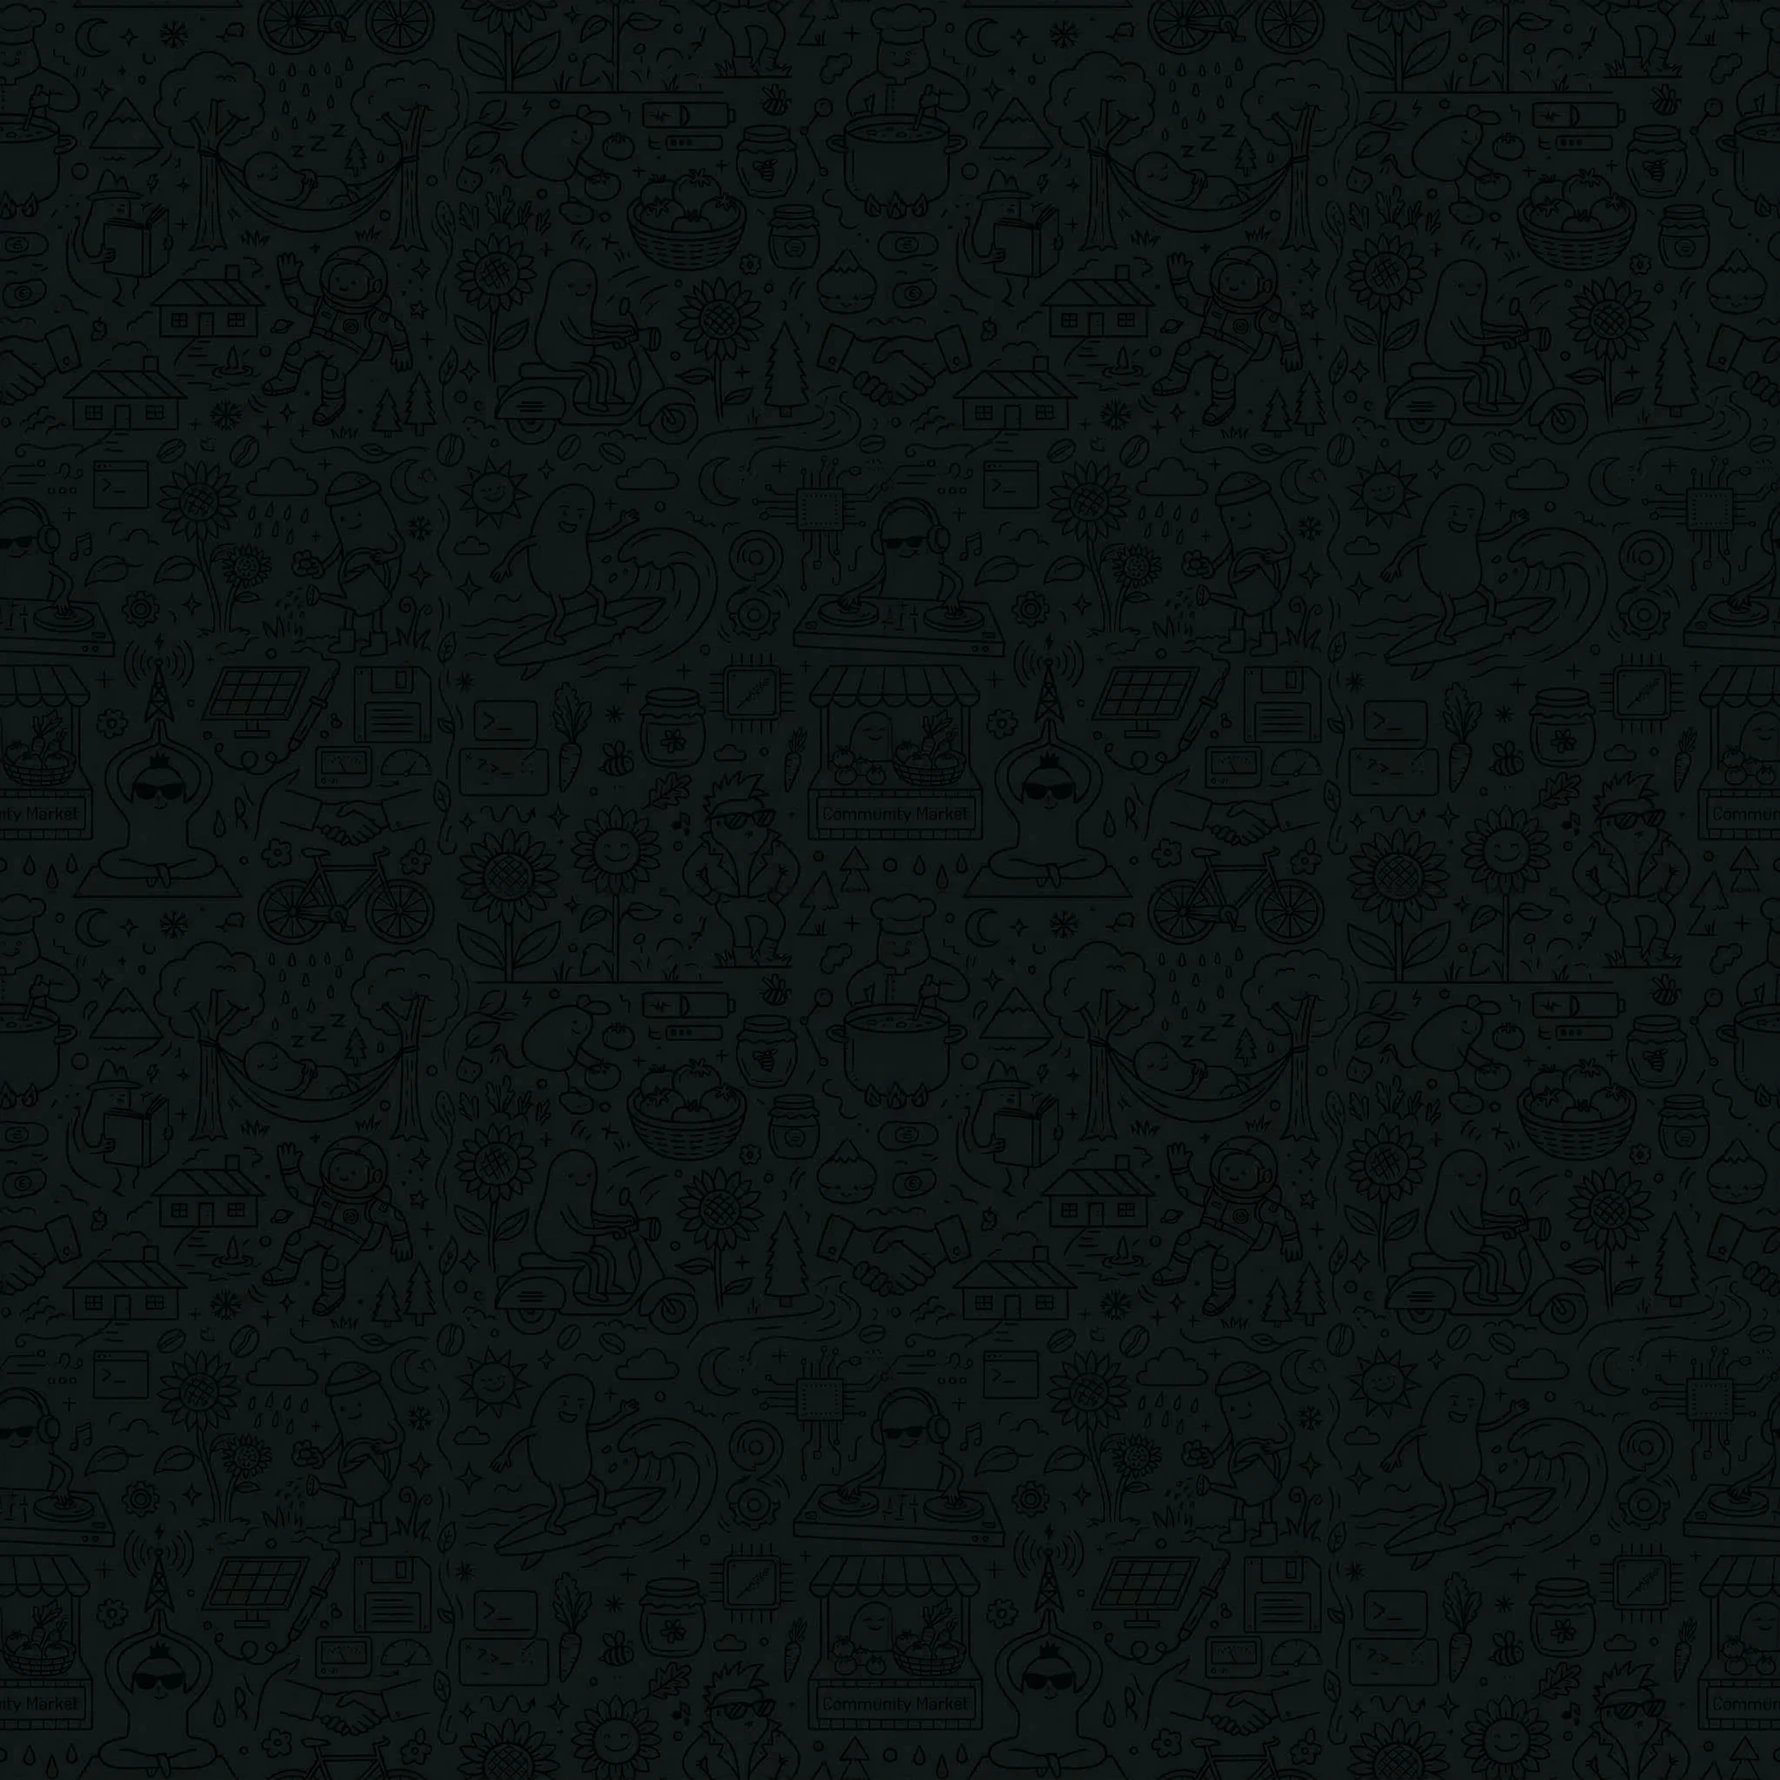
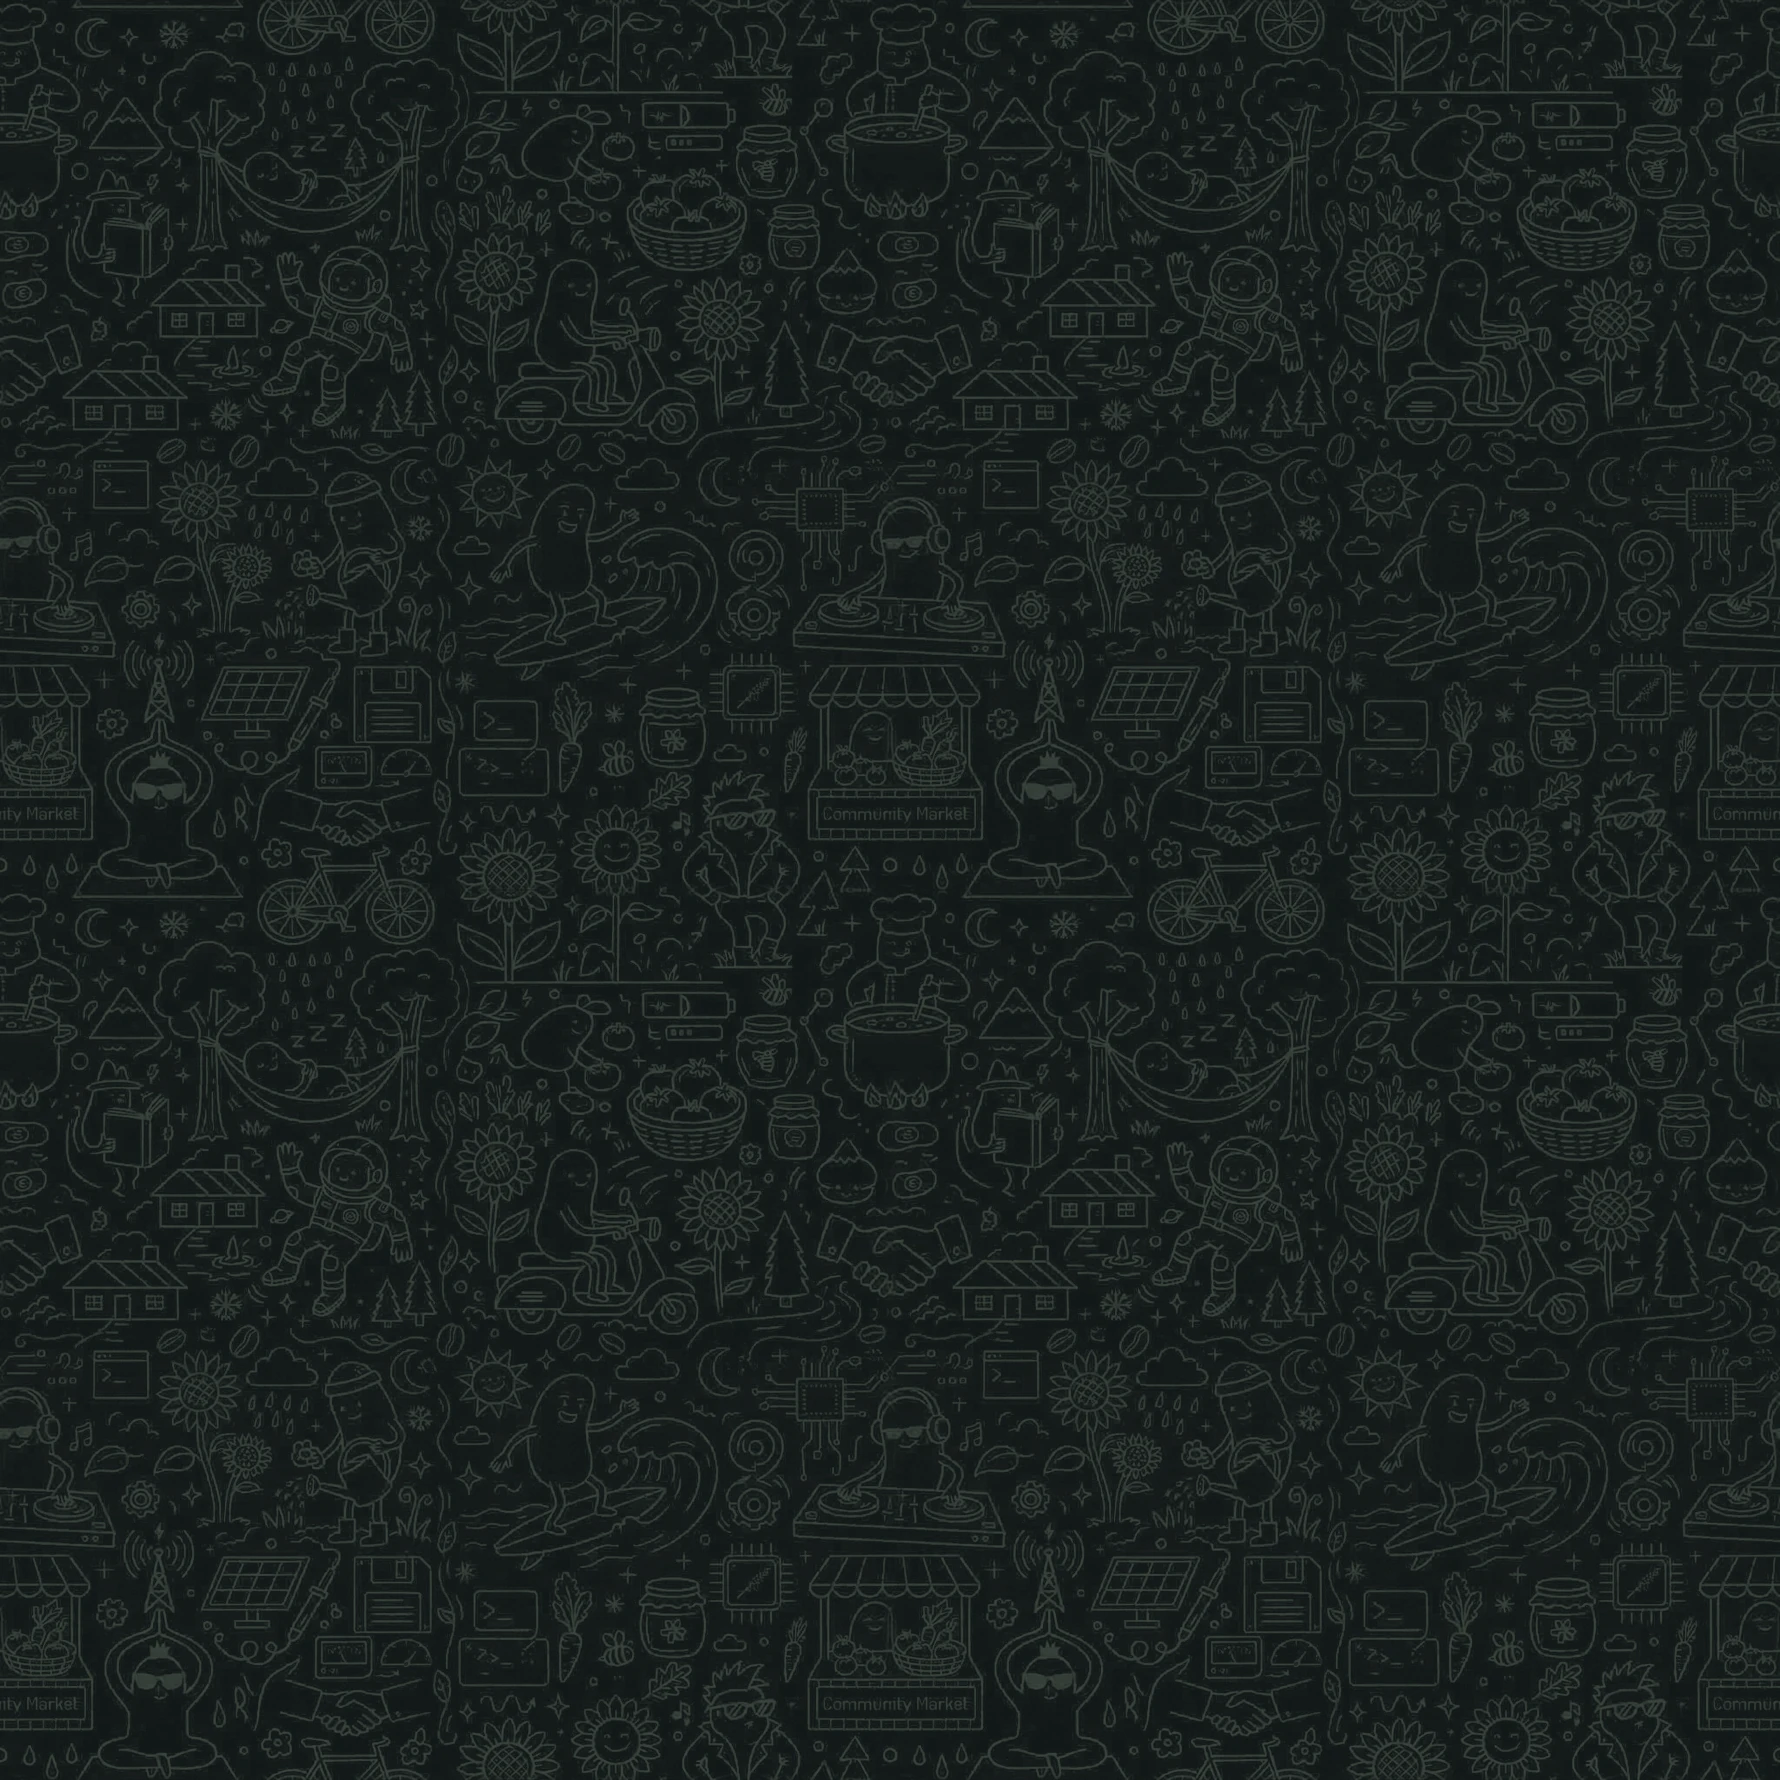
fix: lift the dark doodles above the background so they actually read
The dark tile drew its ink DARKER than an already near-black ground (13/255
measured on the source art), so the doodles all but vanished on a phone — the
art was there and invisible. The ink is now lifted above the ground instead,
the way a dark wallpaper normally works, at 45/255.

Regenerated from the 2x2 master so the lift happens at full resolution rather
than on the halved file, and re-exported at 1x and 2x.

The lift moves the tile's own ground from #101717 to #141a1a, so surface.chrome
and --pattern-bg move with it; otherwise the opaque bars and the controls block
would no longer match the wallpaper they sit against.

Changed region(s): [[0.0, 0.0, 1.0, 1.0]]

diff --git a/apps/native/app/ThemeContext.tsx b/apps/native/app/ThemeContext.tsx
@@ -39,7 +39,7 @@ export interface ThemeContextType {
 const PATTERN_KEY = 'beanpool_background_pattern';
 
 /** The flat colour the doodle tiles are drawn on — sampled from the art itself. */
-const PATTERN_GROUND = { light: '#f1f1e4', dark: '#101717' } as const;
+const PATTERN_GROUND = { light: '#f1f1e4', dark: '#141a1a' } as const;
 
 const ThemeContext = createContext<ThemeContextType | undefined>(undefined);
 

diff --git a/apps/website/style.css b/apps/website/style.css
@@ -1,7 +1,7 @@
 /* ======================== DESIGN SYSTEM TOKENS ======================== */
 :root {
     --bg-primary: #030712;
-    --pattern-bg: #101717;   /* the doodle tile's own ground */
+    --pattern-bg: #141a1a;   /* the doodle tile's own ground */
     --bg-surface: #0b0f19;
     --bg-card: rgba(17, 24, 39, 0.45);
     --bg-card-hover: rgba(22, 32, 54, 0.6);

diff --git a/apps/pwa/src/index.css b/apps/pwa/src/index.css
@@ -80,7 +80,7 @@
   --header-bg: #1d231d;
   --header-overlay: rgba(29, 35, 29, 0.85);
   --pattern-image: -webkit-image-set(url('/pattern-dark.webp') 1x, url('/pattern-dark-2x.webp') 2x);
-  --pattern-bg: #101717;
+  --pattern-bg: #141a1a;
   --nav-bg: #2a322a;
   --shadow-card: 0 4px 12px rgba(0,0,0,0.3);
 }
